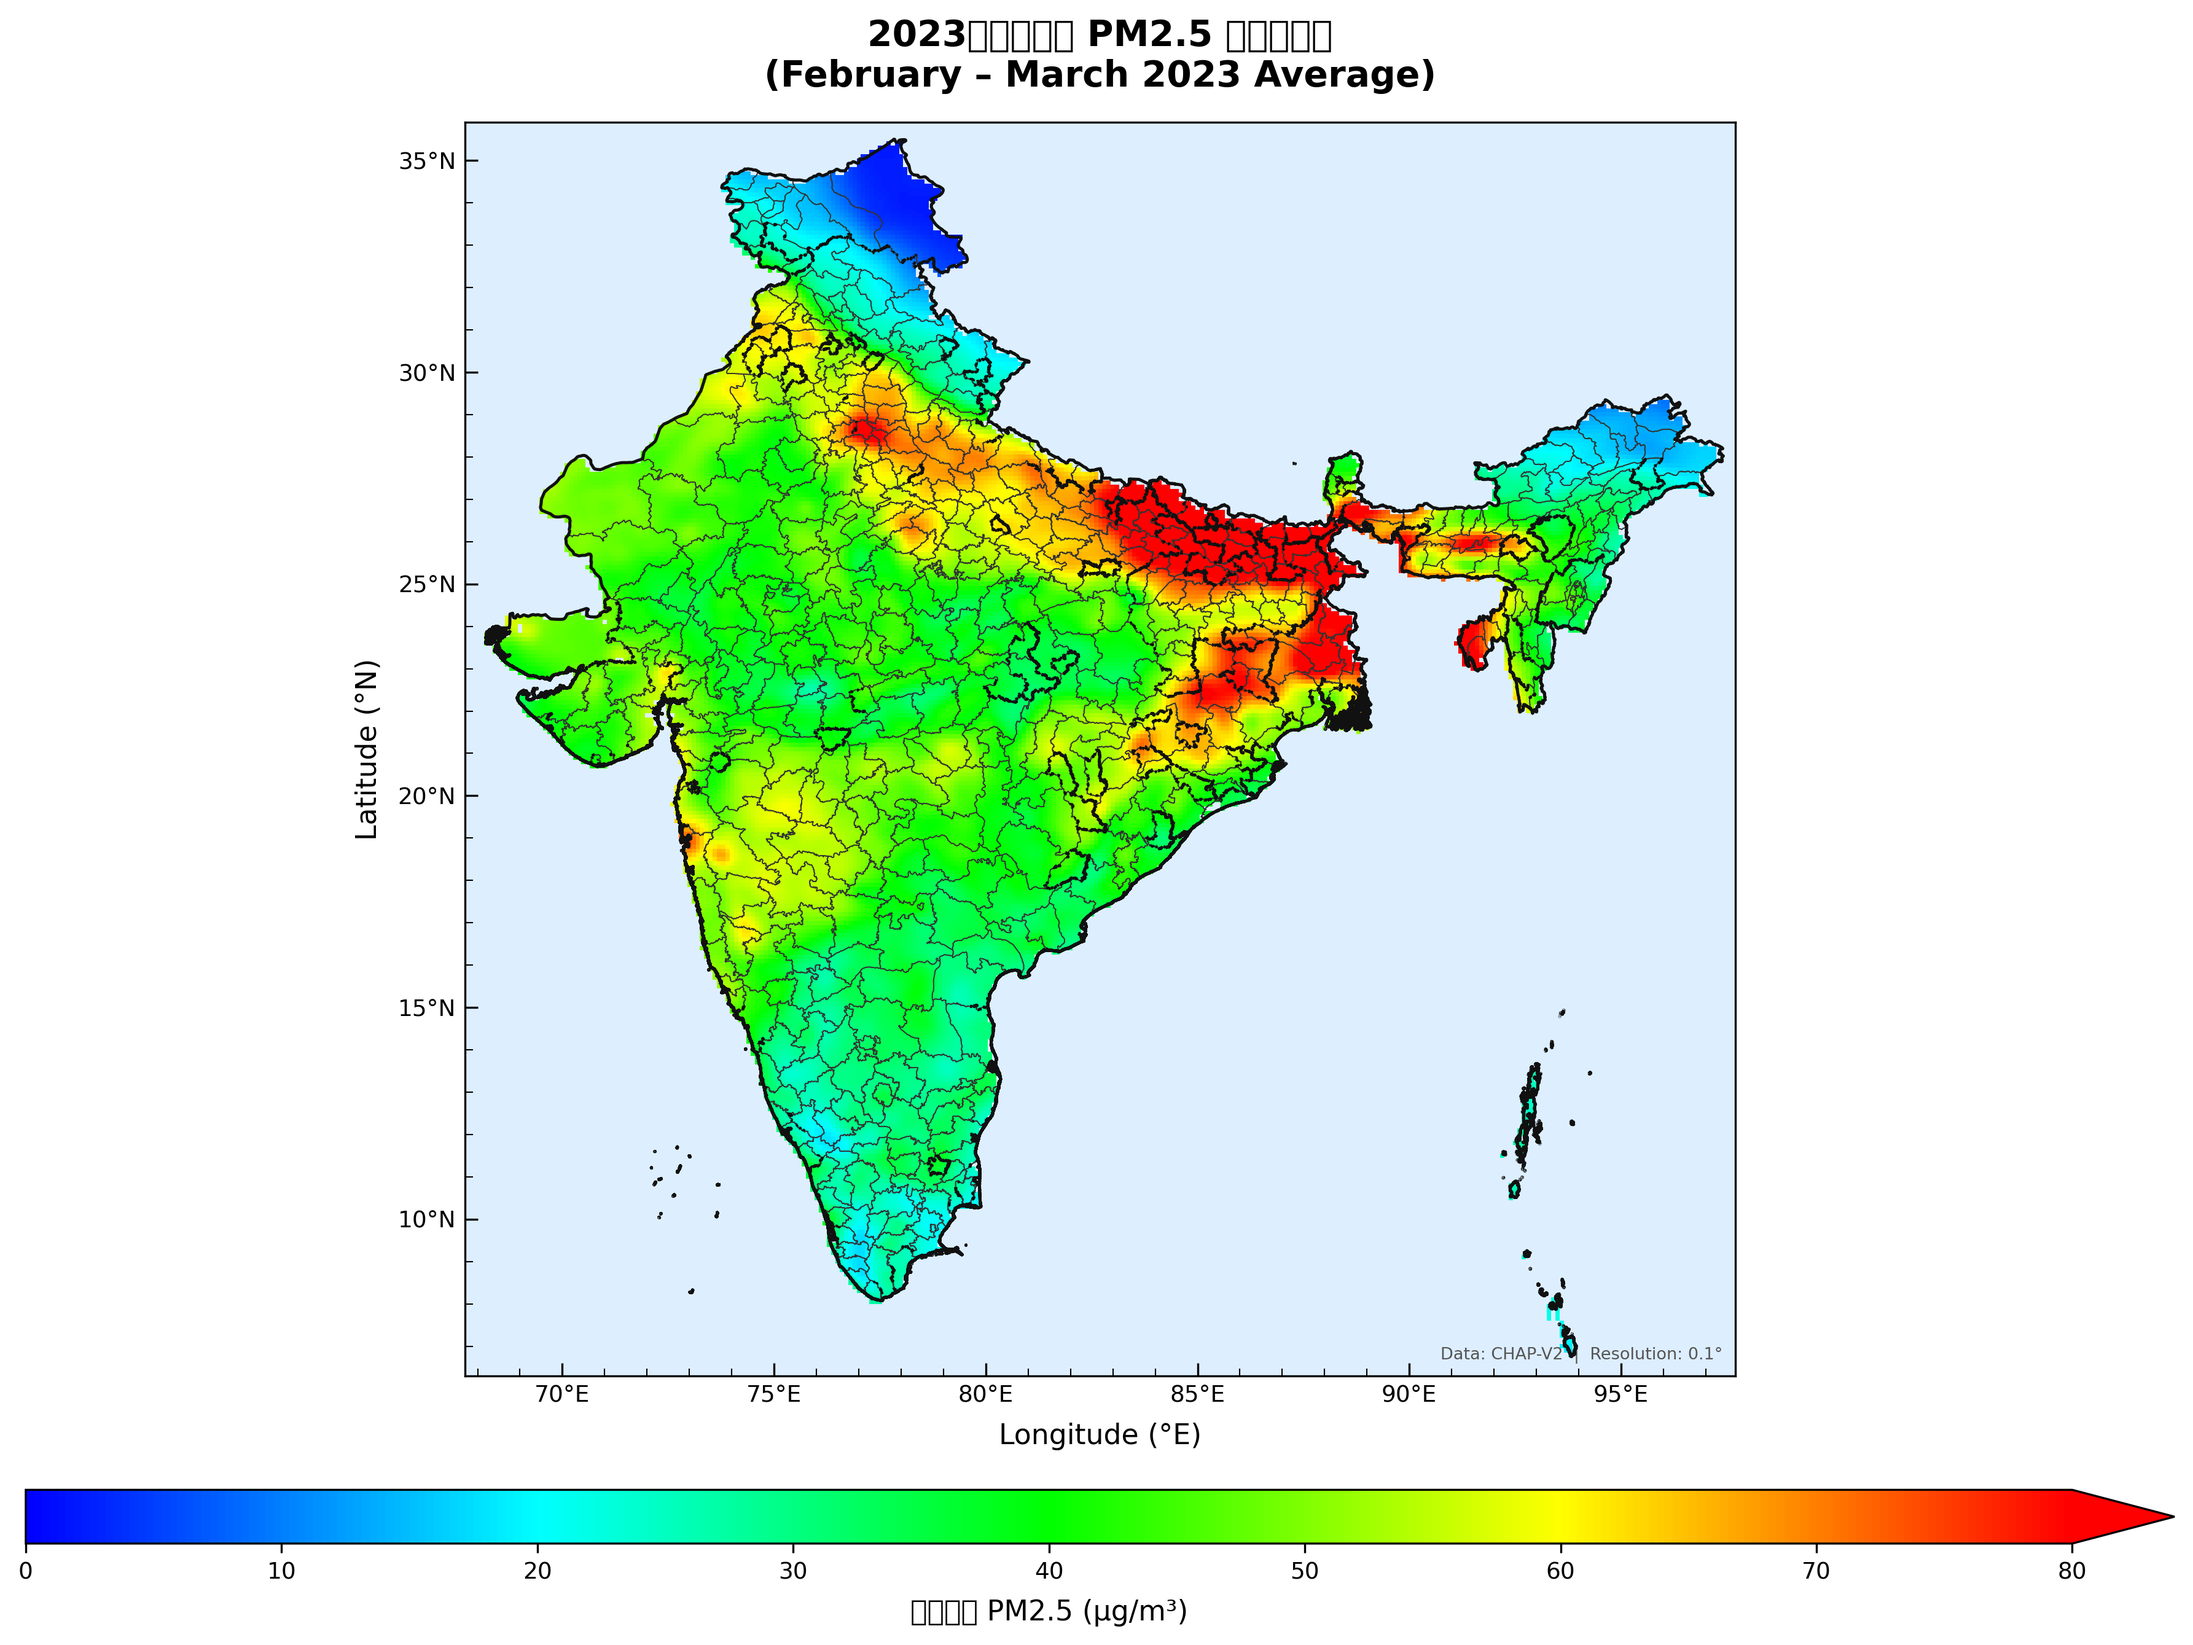
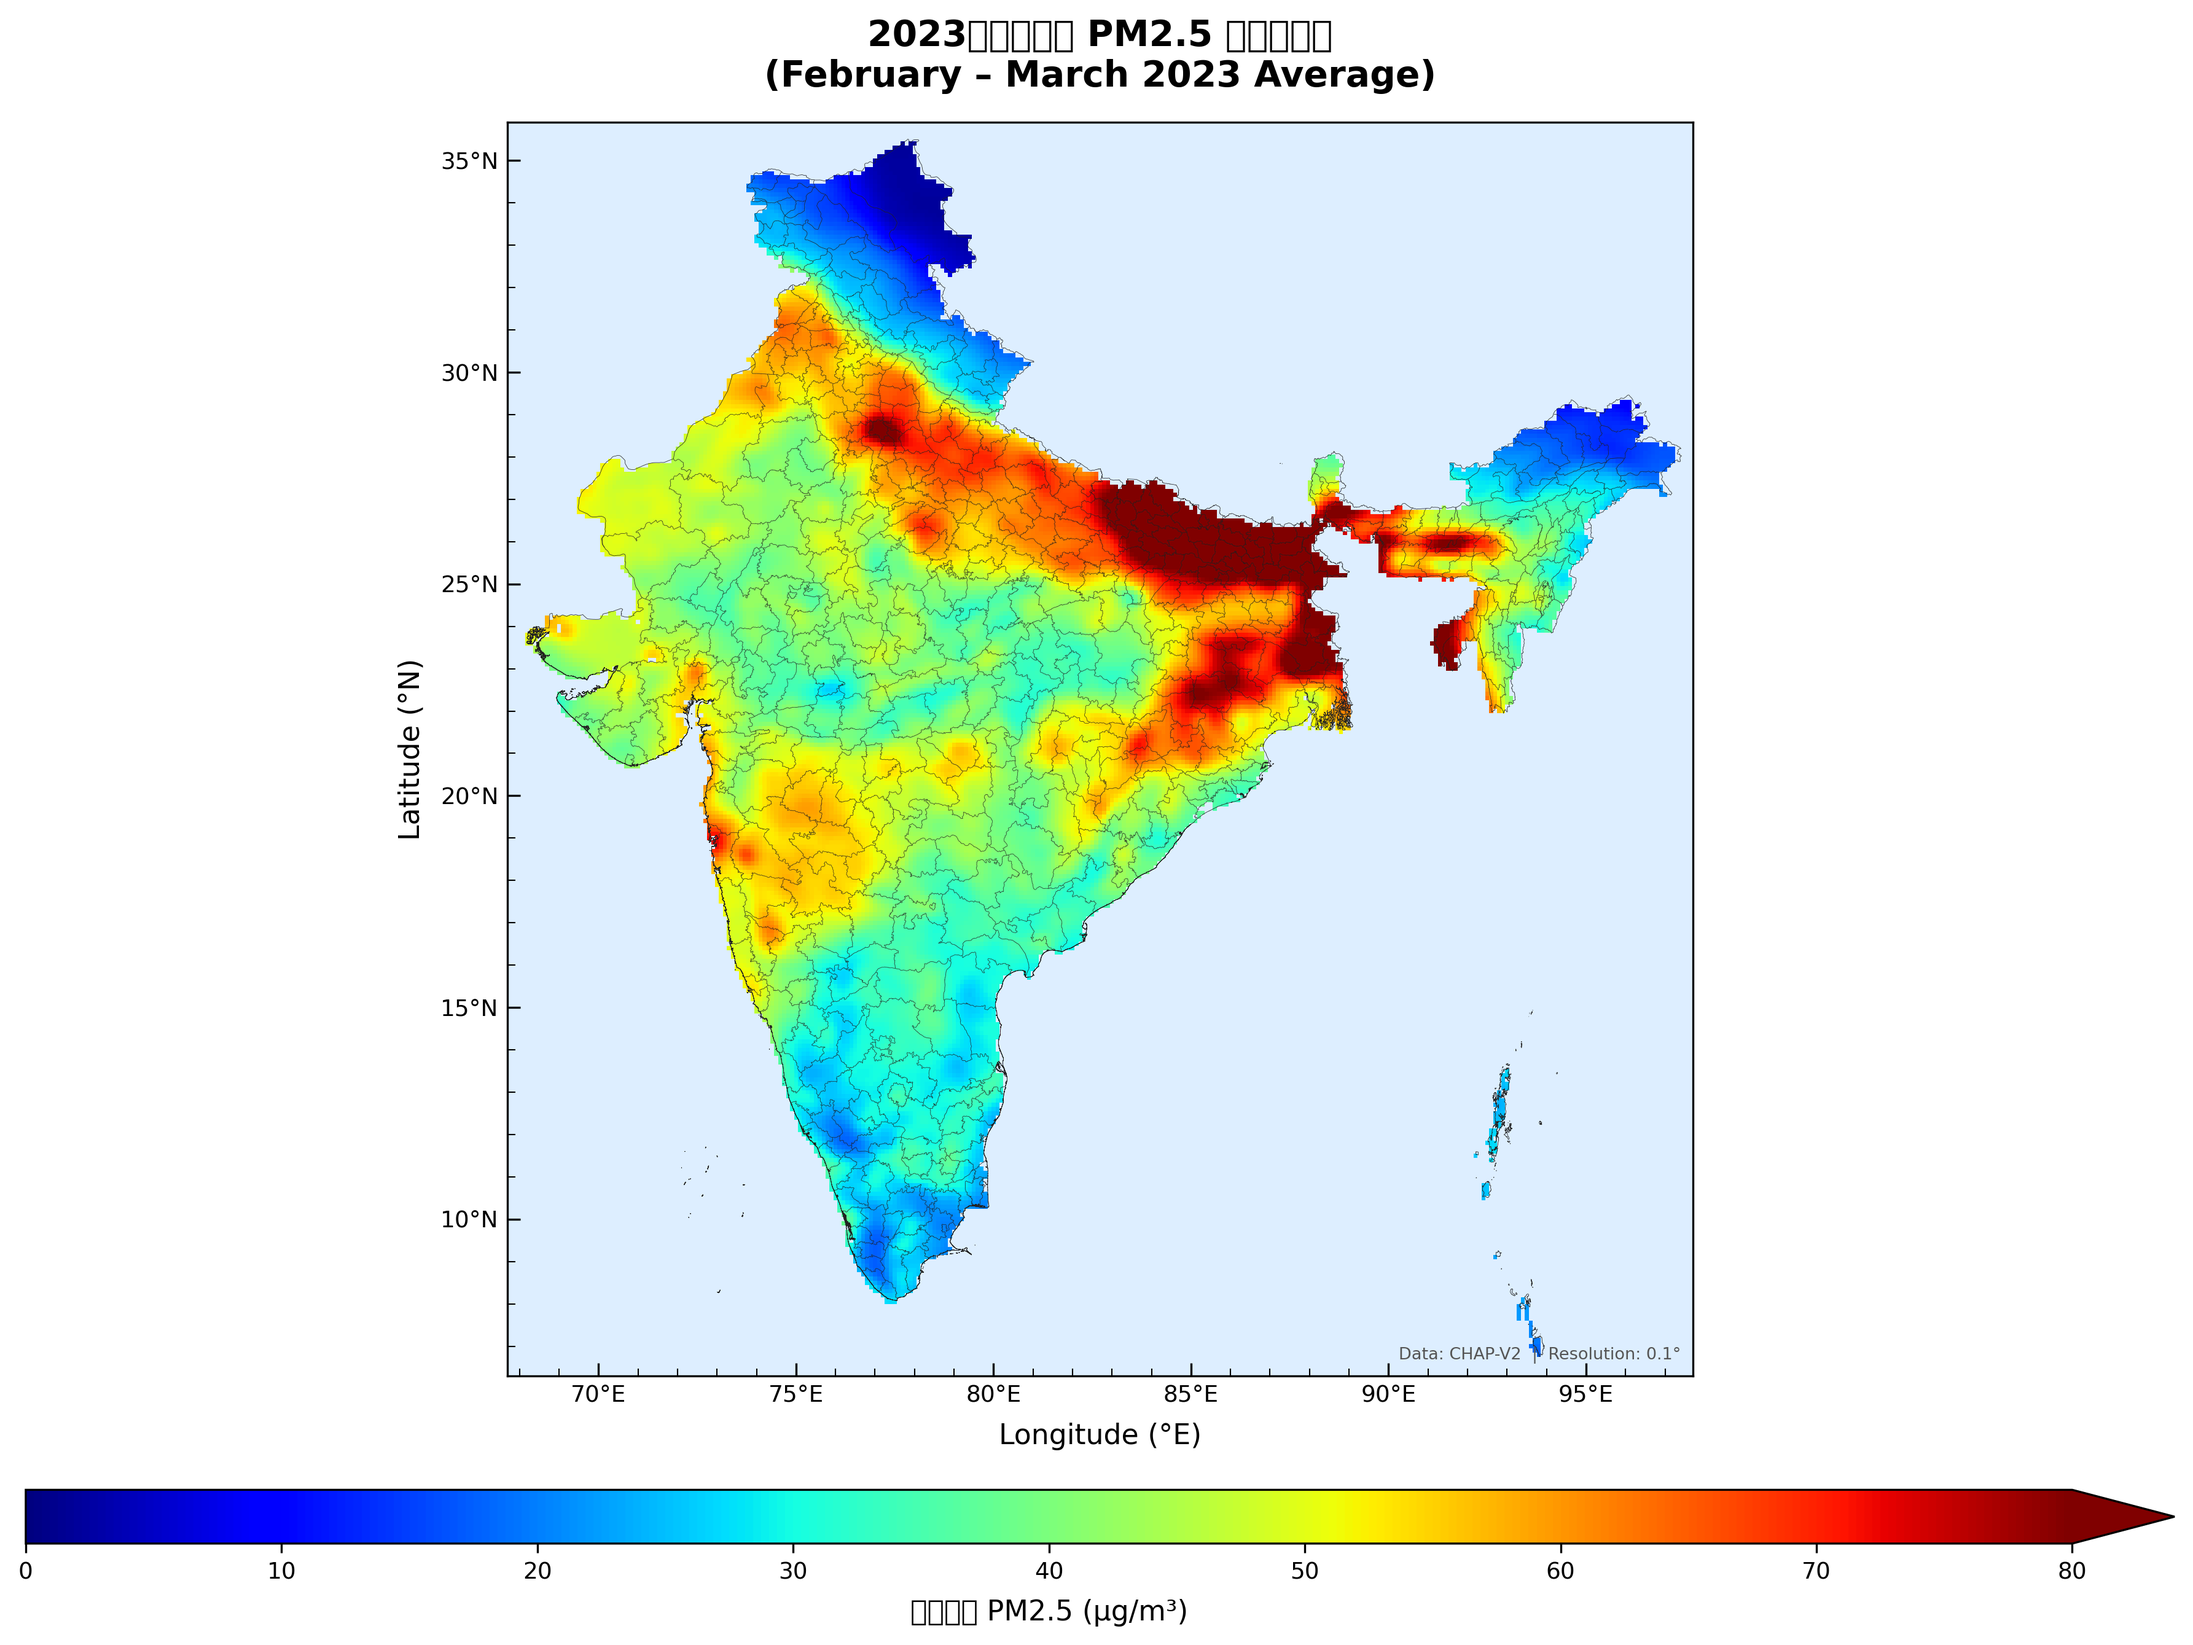
Thin boundary lines and switch to China-style jet colorbar
Agent-Logs-Url: https://github.com/hhhhccccc/pm25-india-visualization/sessions/58a01ec1-081a-4ad5-be63-7f8d47499753

diff --git a/plot_pm25.py b/plot_pm25.py
@@ -11,7 +11,6 @@ Output: pm25_india_feb_mar_2023.png
 
 import os
 import warnings
-import colorsys
 import urllib.request
 
 import numpy as np
@@ -117,16 +116,12 @@ pm25_smooth = gaussian_filter(pm25_interp, sigma=1.5)
 pm25_plot = np.where(land_mask, pm25_smooth, np.nan)
 
 # ---------------------------------------------------------------------------
-# 3. Colour map – exact HSV rainbow blue → cyan → green → yellow → orange → red
-#    Matches the China reference PM2.5 map colour bar (hue 240° → 0°)
+# 3. Colour map – China-style rainbow colour bar
 # ---------------------------------------------------------------------------
 VMIN, VMAX = 0, 80   # μg/m³ – same axis range as the reference China map
 
-# Build continuous rainbow from hue=240° (blue) to hue=0° (red) in HSV space
-_n = 256
-_hues = np.linspace(240 / 360, 0 / 360, _n)
-_rgb = [colorsys.hsv_to_rgb(h, 1.0, 1.0) for h in _hues]
-cmap = mcolors.LinearSegmentedColormap.from_list("china_pm25_rainbow", _rgb)
+# Use classic China-map rainbow (blue→cyan→green→yellow→orange→red)
+cmap = plt.get_cmap("jet")
 norm = mcolors.Normalize(vmin=VMIN, vmax=VMAX)
 
 # ---------------------------------------------------------------------------
@@ -195,20 +190,19 @@ if use_geojson and india_gdf is not None:
     # Reproject to WGS-84 if needed
     if india_gdf.crs and india_gdf.crs.to_epsg() != 4326:
         india_gdf = india_gdf.to_crs("EPSG:4326")
-    india_gdf.boundary.plot(
-        ax=ax, linewidth=0.4, edgecolor="#333333", zorder=4
-    )
-    # Outer country border (union of all districts)
+
+    # Draw only admin-2 (city/county-level) boundaries as a single merged layer
+    # to avoid mixed thick/thin appearance caused by overlapping segments.
     try:
-        outer = india_gdf.union_all()
-        gpd.GeoSeries([outer]).boundary.plot(
-            ax=ax, linewidth=1.2, edgecolor="#111111", zorder=5
+        linework = india_gdf.boundary.union_all()
+        gpd.GeoSeries([linework], crs="EPSG:4326").plot(
+            ax=ax, linewidth=0.18, color="#222222", zorder=4
         )
     except AttributeError:
-        # older geopandas
-        outer = india_gdf.geometry.unary_union
-        gpd.GeoSeries([outer]).boundary.plot(
-            ax=ax, linewidth=1.2, edgecolor="#111111", zorder=5
+        # older geopandas compatibility
+        linework = india_gdf.boundary.unary_union
+        gpd.GeoSeries([linework], crs="EPSG:4326").plot(
+            ax=ax, linewidth=0.18, color="#222222", zorder=4
         )
 else:
     # Draw boundary derived from the land mask using contour at 0.5
